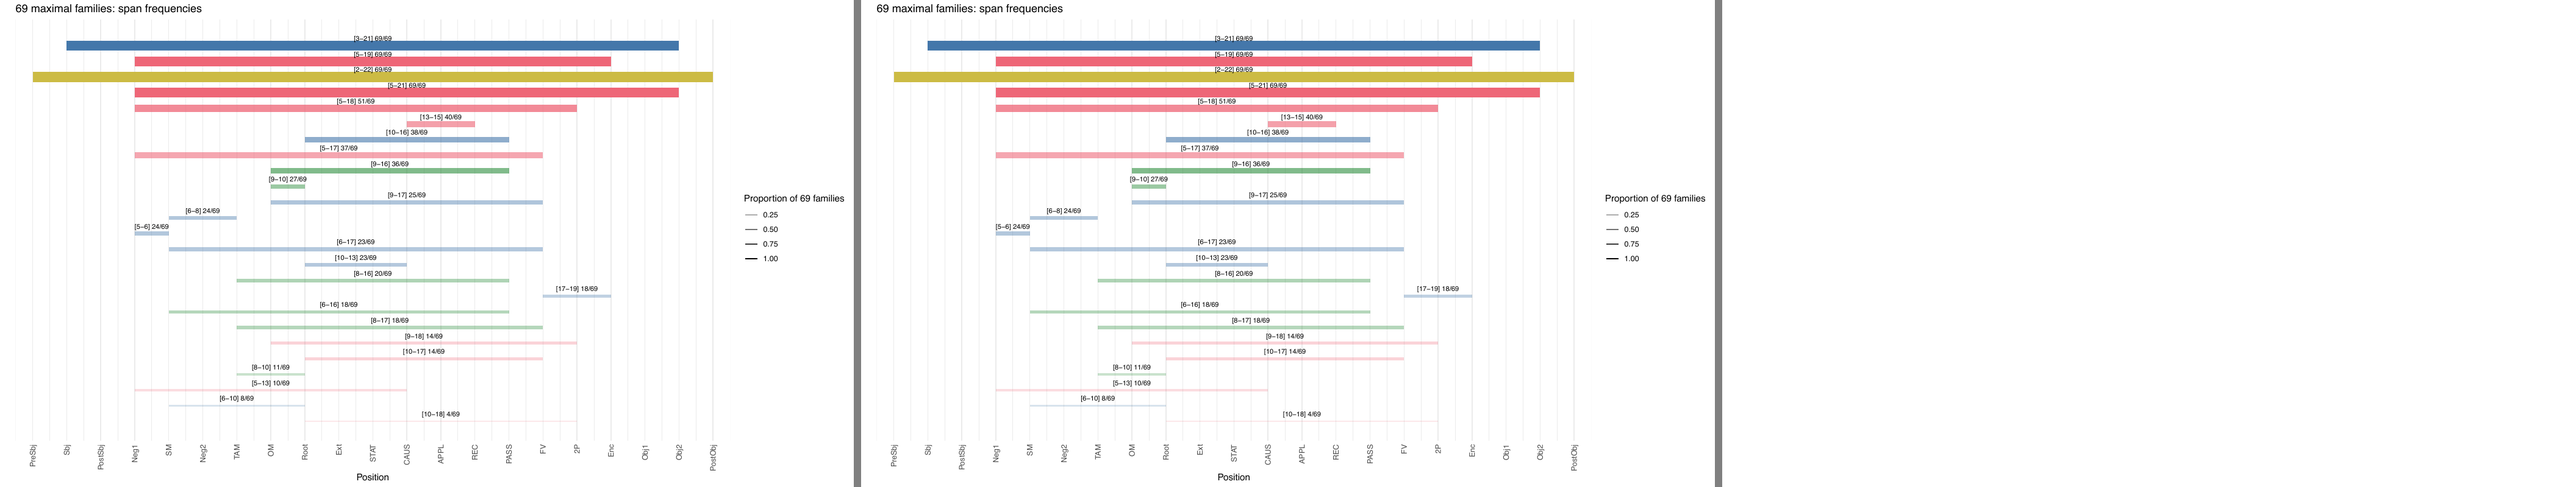
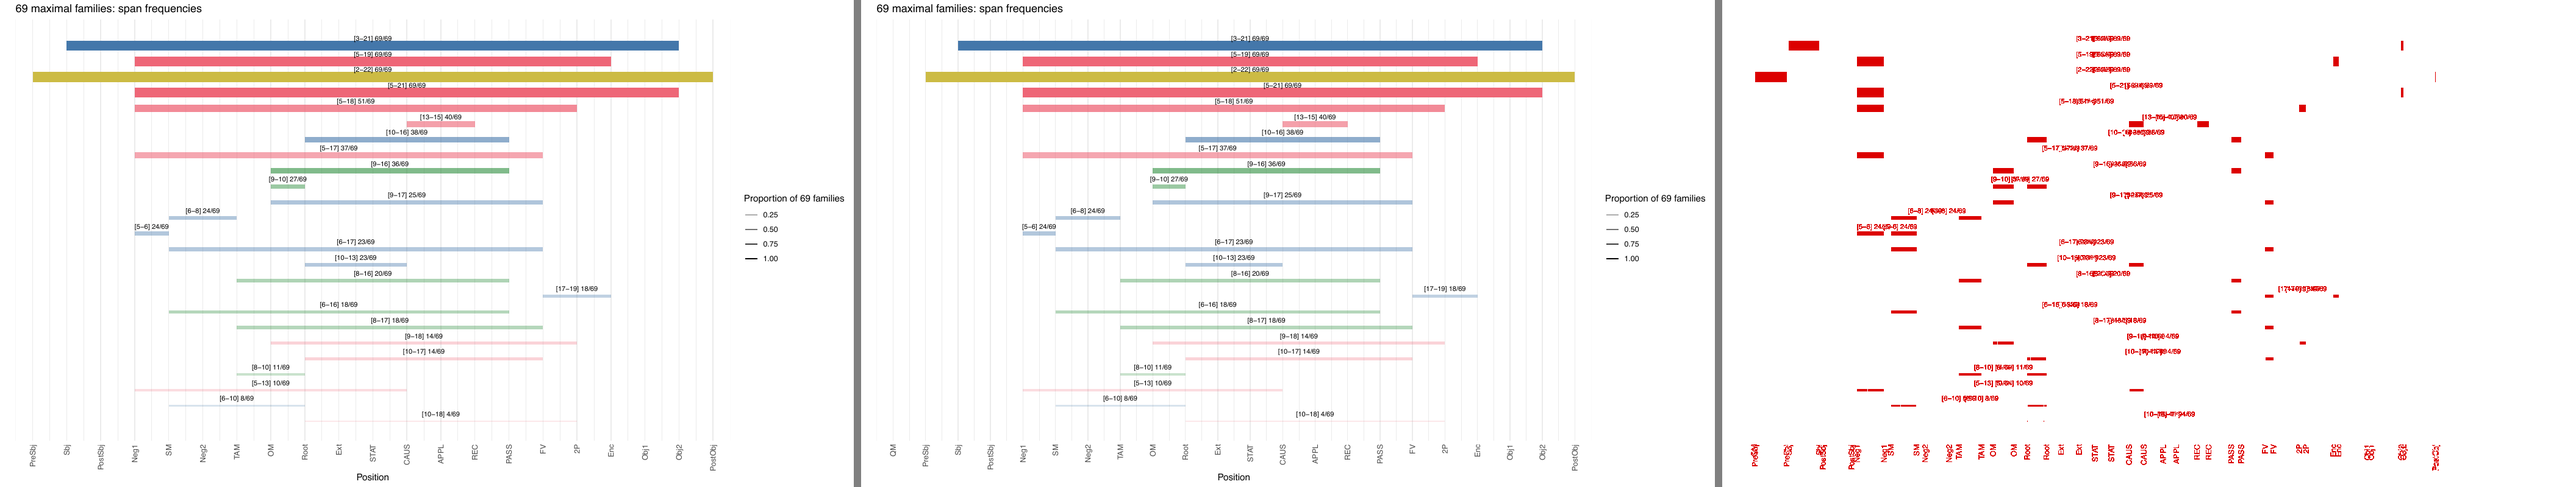
planarsviz: span chart shows every position on its axis
Progress question 5, settled by Jeff. The axis range came from the drawn
spans, so nyan1308's started at PreSbj: position 1 is reached only by the
full [1-22] root, which this chart excludes, so its tick label vanished.
Every other chart shows the whole planar structure, and the truncation was
silent -- a reader comparing charts would assume the axes align. Any
language whose first position is not a span boundary loses it the same way.

plot_span_chart() gains `positions`; "drawn" restores the old behaviour and
is what check_spanchart.R now compares against the old script (numbers
identical). The new default differs from the old file by 2.4% of pixels,
all of it the bars shifting as the panel widens. check_renderer.py lists
spanchart among the deliberate changes.

Chart copied to results/ for use before cutover; catalogue and its image
updated. Progress questions 1-4 recorded as settled in the same pass:
1 (keep the supercatalan and tree-counting illustrations, as an
`illustrations` bundle in a new Phase E), 2 (the annotated legend is a
one-off, nothing to apply), 3 (display labels stay in planar_tables/, a
charting concern only), 4 (`Elements == "root"` for now, with the
pipeline's keystone convention taking over once Chichewa is onboarded).

Claude-Session: https://claude.ai/code/session_01Y9T6sSm3ipcLkWr35kXTRo

diff --git a/NonCollaborative/scripts/planarsviz_checks/check_renderer.py b/NonCollaborative/scripts/planarsviz_checks/check_renderer.py
@@ -34,7 +34,10 @@ CHANGED = {"conflict_groups", "all_families_labeled_legend",
            "all_families_labeled_orthographic_word_legend",
            # 2026-09-16: the ForestSpans legend moved into the panel's empty
            # lower-left corner, in a bordered box.
-           "forestspans_plot", "forestspans_plot_no_tono"}
+           "forestspans_plot", "forestspans_plot_no_tono",
+           # 2026-09-19: the span chart's axis shows every position, not just
+           # the stretch the drawn spans cover.
+           "spanchart"}
 
 out_dir = Path(sys.argv[1])
 compare_dir = out_dir / "compare"

diff --git a/NonCollaborative/docs/PLANARSVIZ_LIBRARY_PROGRESS.md b/NonCollaborative/docs/PLANARSVIZ_LIBRARY_PROGRESS.md
@@ -29,29 +29,86 @@ Honesty rule: nothing below says "matches" without naming the comparison file.
 
 ## Open questions for Jeff
 
-1. **Chart files not in the inventory** (§3.2): `supercatalan_trees_n2.pdf`,
-   `_n3.pdf`, `_n4.pdf`, `_n5_sample15.pdf` (from
-   `scripts/exploratory/render_supercatalan_rows.r`), and
-   `tree_counting_equations.pdf` (LaTeX). Port, or treat as out of scope like
-   the other exploratory/LaTeX outputs? Not started.
-2. **`nyan1308_all_families_labeled_legend-JGAnn.pdf`** looks like your hand
-   annotation of the legend, not a chart output. Committed on `main` as-is;
-   not treated as a chart. Is there feedback in it the port should apply?
-3. **Display labels for nyan1308.** The planar table's `Position_Label`
-   column has short slot codes (`V`, `Un`, `PrS`…), but every chart uses
-   different labels (`Root`, `Ext`, `PreSbj`…), which lived only in
-   `laminar_analysis.py`'s `_NYAN1308_POS_LABELS`. The salvaged exporter
-   special-cased `dataset == "nyan1308"` to get them (a leak). Now: the
-   exporter reads an explicit labels file, and nyan1308's is committed as
-   `planar_tables/display_labels_nyan1308.tsv` (same 22 labels). OK to keep a
-   data file there, or should chart labels live elsewhere?
-4. **Root position.** The main project's keystone convention is
-   `Position_Name == 'v:verbstem'`, but `planar_nyan1308.tsv` has no
-   `Position_Name` column; its root row has `Elements == "root"`. The
-   exporter uses `--root-element root` (default) and records
-   `root_position` in `metadata.json`. Confirm this is the right marker.
-5. Span chart x-axis drops labels left of the first charted span — see the
-   chart 15 entry.
+1. **Settled 2026-09-19: keep them, as their own bundle.** They are research
+   output, and more general illustrations are expected. They fit the
+   library's rule (Python computes, R draws from a data folder); what they
+   lack is a *language*, not data. So: an `illustrations` bundle at
+   `results/planarsviz/illustrations/data/` holding `tree_shapes.tsv` (n,
+   shape number, Newick — exhaustive for n=2–4, sampled above that),
+   `tree_counts.tsv` (n, Catalan, little Schröder A001003, n-ary A007052)
+   and a `metadata.json` recording what is exhaustive, what is sampled, and
+   the random seed. Written by a new
+   `scripts/analysis/export_planarsviz_illustrations.py` reusing the
+   enumerator in `generate_supercatalan_rows.py`. R draws it with
+   `plot_tree_shapes(ref, n)` and a new `plot_tree_count_growth(ref)` (the
+   counts become data, so the growth of the tree space against the 69
+   families can be a chart rather than a table). Named `illustrations` and
+   not `reference` because `results/planarsviz/reference/` already holds the
+   frozen images the porting checks compare against.
+   `tree_counting_equations.pdf` stays LaTeX — typeset mathematics, which
+   ggplot would render worse — and is documented as part of this family.
+   `nyan1308_random_tree_overlay.pdf` joins it too: it was out of scope only
+   because it samples randomly, and a recorded seed is the same fix; it
+   reads both bundles, since its positions are real but its content is
+   illustrative. Scheduled as **Phase E, after cutover**, since it is purely
+   additive.
+   Original question: these five files are in `results/` but were never in
+   the §3.2 inventory — port, or treat as out of scope like the other
+   exploratory/LaTeX outputs?
+2. **Settled 2026-09-19: nothing to apply.** Jeff made the file to point at
+   something during a conversation, not as feedback on the chart. It stays
+   in `results/` as a one-off; it is not a chart output, gets no reference
+   image, and no check covers it. (What the red ellipse marks: two thick
+   edges ending in rounded line caps, which read as dark blobs. If that ever
+   does want fixing, squaring off the line ends is a one-line change to the
+   ghost-tree drawing, worth an option rather than a new default.)
+   Original question: is there feedback in it the port should apply?
+3. **Settled 2026-09-19: keep them where they are.** Jeff: "at the moment,
+   these labels are a charting concern only." So
+   `planar_tables/display_labels_<dataset>.tsv` stays the home, read by the
+   exporter via `--labels-file` (defaulting to that name), falling back to
+   the planar table's `Position_Label` and then to plain numbers. They are
+   deliberately *not* a column on `planar_nyan1308.tsv`: that file is shared
+   structure the main pipeline reads, and a charts-only column there would
+   give one fact two owners.
+   **If that changes** — if these become the canonical display names for
+   Chichewa positions rather than chart labels — the move is small: the
+   exporter reads from wherever they then live and nothing in R changes,
+   since R only ever sees `position_labels.tsv` inside the bundle.
+   Original question: the planar table's `Position_Label` column has short
+   slot codes (`V`, `Un`, `PrS`…), but every chart uses different labels
+   (`Root`, `Ext`, `PreSbj`…), which lived only in `laminar_analysis.py`'s
+   `_NYAN1308_POS_LABELS`; the salvaged exporter special-cased
+   `dataset == "nyan1308"` to get them (a leak).
+4. **Settled 2026-09-19: `Elements == "root"` for now; the pipeline's
+   keystone convention takes over once Chichewa is onboarded.** Established
+   while answering: *neither* planar table in `NonCollaborative/`
+   (nyan1308's or stan1293's) has a `Position_Name` column — they are an
+   older format than the `coded_data/` tables the main pipeline reads, so
+   `Position_Name == 'v:verbstem'` was never available here. nyan1308's root
+   row is the file's only `Elements == "root"`: position 10, label `V`,
+   description "verb root". `Elements` is used rather than `Position_Label`
+   because it says what the position contains, whereas labels are a charting
+   concern (question 3); `load_root_position()` raises if more than one row
+   matches, and with no match `root_position` is null and charts omit the
+   dotted root line instead of drawing it somewhere wrong.
+   **When issue #72 lands** (Chichewa onboarded, needs the tonosegmental and
+   intonational modules first) there will be a `coded_data` planar table
+   with a real keystone row; the exporter should then read that file and use
+   `Position_Name == 'v:verbstem'`, so the keystone has one definition
+   rather than two. Nothing to point at today.
+   Original question: confirm `--root-element root` is the right marker.
+5. **Settled 2026-09-19: fixed — the axis shows every position.** The range
+   came from the drawn spans, so nyan1308's axis started at PreSbj: only the
+   full `[1-22]` root reaches position 1, and that root is excluded from
+   this chart. Every other chart shows the whole structure, the axis is the
+   planar structure rather than the data, and the truncation is silent — a
+   reader comparing two charts would assume the axes align. Not
+   Chichewa-specific: any language whose first position is not a span
+   boundary loses it the same way. `positions = "drawn"` restores the old
+   behaviour and is what the check compares against (numbers identical);
+   the new default differs from the old file by 2.4% of pixels, all of it
+   the bars shifting as the panel widens.
 6. Span chart colour for `length` is inferred — see the chart 15 entry.
 7. **Settled 2026-09-15: fixed.** The swatch now follows the lines'
    exponent (`legend_thickness_exponent`, default `thickness_exponent`;

diff --git a/NonCollaborative/docs/planarsviz_charts.md b/NonCollaborative/docs/planarsviz_charts.md
@@ -98,7 +98,11 @@ that share, colour the span's main domain type.
 plot_span_chart(bundle)
 ```
 
-No options. Canvas 14 × 8 in. Renderer name `spanchart`; old file
+| Option | Meaning |
+|---|---|
+| `positions` | `"all"` (default) shows every position in the planar structure; `"drawn"` shows only the stretch the charted spans cover, as the old file does — which silently dropped position 1, reached only by the excluded full root. |
+
+Canvas 14 × 8 in. Renderer name `spanchart`; old file
 `nyan1308_spanchart.pdf`.
 
 ---
